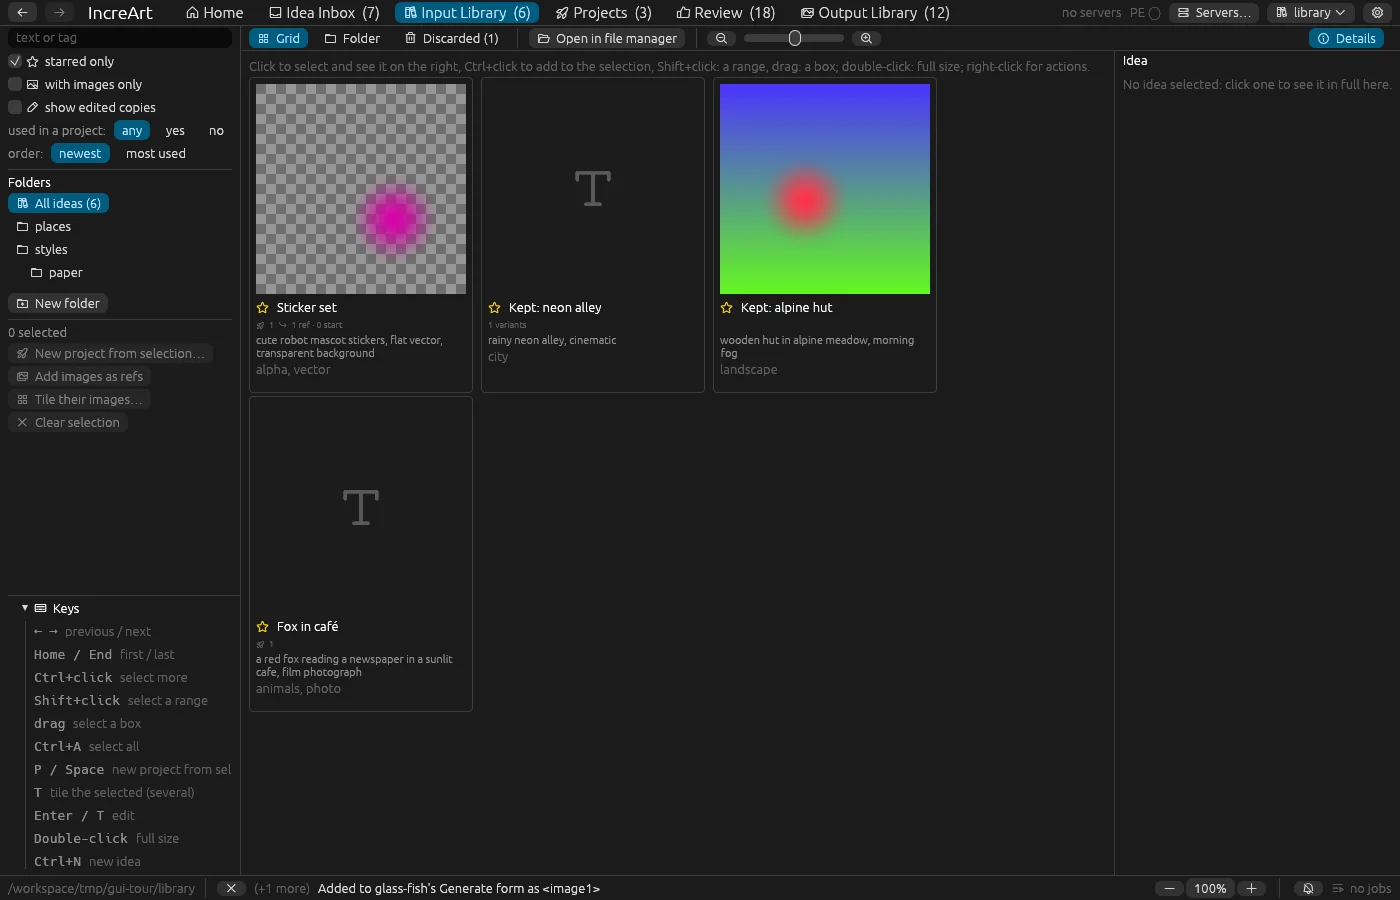
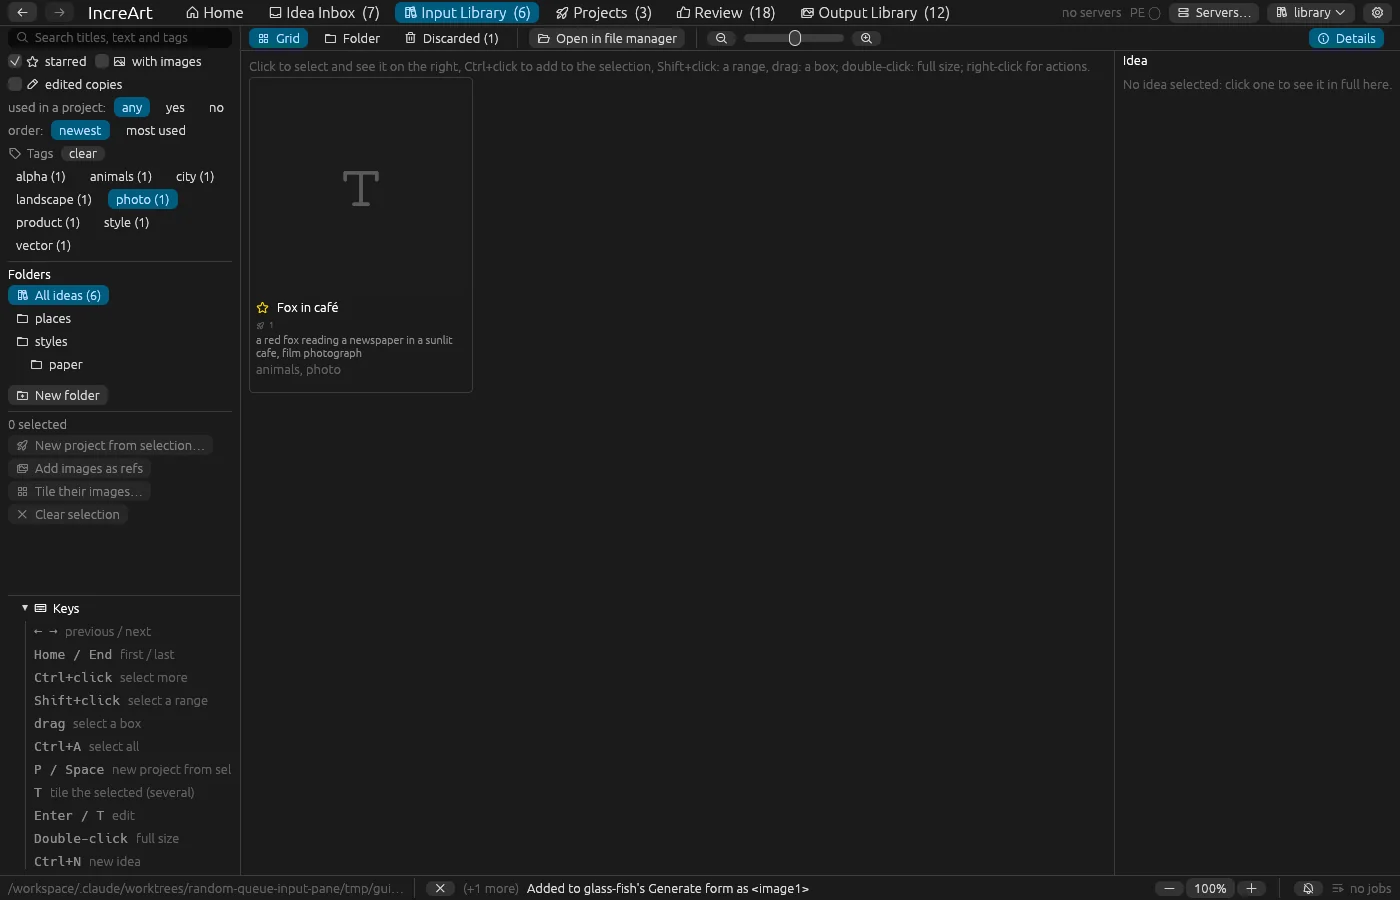
Input library: the left pane's search and tags laid out as the Output library's: a search box over titles, text and tags (✕ or Esc clears it), starred / with images / edited copies on one row, then Tags, the folder's ideas' tags with their counts as chips (any case counts as one): a click shows only

diff --git a/crates/increart-gui-core/src/state.rs b/crates/increart-gui-core/src/state.rs
@@ -54,6 +54,9 @@ pub struct LibFilter {
     pub most_used: bool,
     /// The edited copies (Crop / mark…) too, from `input/edited/`.
     pub show_hidden: bool,
+    /// Only ideas with all of these tags (any case), picked in the tag
+    /// filter.
+    pub tags: Vec<String>,
 }
 
 /// An input image's metadata from its file: where it was imported from, and
@@ -3725,17 +3728,7 @@ impl AppState {
 
     /// Kept ideas in the selected folder and its subfolders, newest first.
     pub fn library_ideas(&self) -> Vec<&IdeaEntry> {
-        let mut v: Vec<_> = self
-            .index
-            .ideas
-            .iter()
-            .filter(|e| match (&e.loc, &self.lib_folder) {
-                (IdeaLoc::Library(_), None) => true,
-                (IdeaLoc::Library(f), Some(sel)) => f.starts_with(sel),
-                (IdeaLoc::Edited, None) => self.lib_filter.show_hidden,
-                _ => false,
-            })
-            .collect();
+        let mut v = self.lib_source_ideas();
         let f = &self.lib_filter;
         let q = f.text.to_lowercase();
         v.retain(|e| {
@@ -3744,6 +3737,7 @@ impl AppState {
                 || i.title.to_lowercase().contains(&q)
                 || i.text.to_lowercase().contains(&q)
                 || i.tags.iter().any(|t| t.to_lowercase().contains(&q)))
+                && f.tags.iter().all(|t| i.tags.iter().any(|x| x.to_lowercase() == t.to_lowercase()))
                 && (!f.starred_only || i.starred)
                 && (!f.with_images_only || !i.images.is_empty())
                 && f.used_in_project.is_none_or(|p| p == !i.projects.is_empty())
@@ -4612,15 +4606,28 @@ impl AppState {
     /// (then by name).
     pub fn tag_counts<'a>(&self, images: impl IntoIterator<Item = &'a ImageRef>) -> Vec<(String, usize)> {
         let all = self.output_tags();
-        let mut n: std::collections::BTreeMap<String, (String, usize)> = Default::default();
-        for i in images {
-            for t in all.get(&i.id).copied().unwrap_or_default() {
-                n.entry(t.to_lowercase()).or_insert((t.clone(), 0)).1 += 1;
-            }
-        }
-        let mut v: Vec<(String, usize)> = n.into_values().collect();
-        v.sort_by(|a, b| b.1.cmp(&a.1).then_with(|| a.0.to_lowercase().cmp(&b.0.to_lowercase())));
-        v
+        count_tags(images.into_iter().map(|i| all.get(&i.id).copied().unwrap_or_default()))
+    }
+
+    /// The ideas' tags with how many have each, most first (the input
+    /// library's tag filter).
+    pub fn idea_tag_counts<'a>(&self, ideas: impl IntoIterator<Item = &'a IdeaEntry>) -> Vec<(String, usize)> {
+        count_tags(ideas.into_iter().map(|e| e.idea.tags.as_slice()))
+    }
+
+    /// The input library Grid's ideas before its filters: the folder's (all
+    /// of the library's with none), and the edited copies when shown.
+    pub fn lib_source_ideas(&self) -> Vec<&IdeaEntry> {
+        self.index
+            .ideas
+            .iter()
+            .filter(|e| match (&e.loc, &self.lib_folder) {
+                (IdeaLoc::Library(_), None) => true,
+                (IdeaLoc::Library(f), Some(sel)) => f.starts_with(sel),
+                (IdeaLoc::Edited, None) => self.lib_filter.show_hidden,
+                _ => false,
+            })
+            .collect()
     }
 
     /// Every tag in the library, output images' and ideas', with how many
@@ -5752,6 +5759,20 @@ pub fn cover(p: &ProjectEntry) -> Option<ImageRef> {
         .iter()
         .max_by(|a, b| (rank(a.verdict), &a.image.id).cmp(&(rank(b.verdict), &b.image.id)))
         .map(|o| o.image.clone())
+}
+
+/// Tags (one list per image or idea) with how many lists have each, any
+/// case counting as one (the first spelling met), most first, then A–Z.
+fn count_tags<'a>(lists: impl IntoIterator<Item = &'a [String]>) -> Vec<(String, usize)> {
+    let mut n: BTreeMap<String, (String, usize)> = Default::default();
+    for tags in lists {
+        for t in tags {
+            n.entry(t.to_lowercase()).or_insert((t.clone(), 0)).1 += 1;
+        }
+    }
+    let mut v: Vec<(String, usize)> = n.into_values().collect();
+    v.sort_by(|a, b| b.1.cmp(&a.1).then_with(|| a.0.to_lowercase().cmp(&b.0.to_lowercase())));
+    v
 }
 
 #[cfg(test)]

diff --git a/crates/increart-gui/src/review.rs b/crates/increart-gui/src/review.rs
@@ -1941,27 +1941,14 @@ fn kept_match(st: &AppState, folder: &Path, q: &str) -> bool {
 fn search_panel(ui: &mut egui::Ui, st: &AppState, out: &mut Vec<Msg>) {
     let mut f = st.output_filter.clone();
     let projects = st.output_search_projects;
-    // right to left: the clear button, then the field takes what's left
-    let row = egui::vec2(ui.available_width(), ui.spacing().interact_size.y);
-    ui.allocate_ui_with_layout(row, egui::Layout::right_to_left(egui::Align::Center), |ui| {
-        let mut q = if projects { st.output_project_search.clone() } else { f.text.clone() };
-        let mut clear = !q.is_empty() && ui.small_button(ph::X).on_hover_text("clear").clicked();
-        let hint = if projects { "Search project names" } else { "Search titles, tags and prompts" };
-        let r = ui.add(
-            egui::TextEdit::singleline(&mut q)
-                .hint_text(ic(ph::MAGNIFYING_GLASS, hint))
-                .desired_width(ui.available_width()),
-        );
-        clear |= r.lost_focus() && ui.input(|i| i.key_pressed(Key::Escape));
-        if clear {
-            q.clear();
-        }
-        if projects && q != st.output_project_search {
+    if projects {
+        let mut q = st.output_project_search.clone();
+        if crate::widgets::search_field(ui, &mut q, "Search project names") {
             out.push(Msg::OutputProjectSearch(q));
-        } else if !projects {
-            f.text = q;
         }
-    });
+    } else {
+        crate::widgets::search_field(ui, &mut f.text, "Search titles, tags and prompts");
+    }
     ui.horizontal(|ui| {
         ui.weak("in");
         let images =
@@ -1994,39 +1981,9 @@ fn search_panel(ui: &mut egui::Ui, st: &AppState, out: &mut Vec<Msg>) {
 /// shows only the images with it (several: all of them), again lets go.
 fn tag_filter(ui: &mut egui::Ui, st: &AppState, f: &mut increart_gui_core::OutputFilter) {
     let images = st.source_images_in(&st.output_source, f.ratings);
-    let mut tags = st.tag_counts(images.iter().map(|o| &o.image));
-    // one picked that none of these have stays, to let go of it
-    for t in &f.tags {
-        if !tags.iter().any(|(x, _)| x.to_lowercase() == t.to_lowercase()) {
-            tags.push((t.clone(), 0));
-        }
-    }
-    ui.horizontal(|ui| {
-        ui.label(ic(ph::TAG, "Tags"));
-        if !f.tags.is_empty() && ui.small_button("clear").on_hover_text("show every tag's images").clicked() {
-            f.tags.clear();
-        }
-    });
-    if tags.is_empty() {
-        ui.weak("No tags here yet: tag images with L.");
-        return;
-    }
-    ScrollArea::vertical().id_salt("tag_filter").max_height(110.0).auto_shrink([false, true]).show(ui, |ui| {
-        ui.horizontal_wrapped(|ui| {
-            for (t, n) in tags {
-                let at = f.tags.iter().position(|x| x.to_lowercase() == t.to_lowercase());
-                let r = ui.selectable_label(at.is_some(), format!("{t} ({n})"));
-                if r.on_hover_text("only images with this tag (several: all of them)").clicked() {
-                    match at {
-                        Some(i) => {
-                            f.tags.remove(i);
-                        }
-                        None => f.tags.push(t),
-                    }
-                }
-            }
-        });
-    });
+    let tags = st.tag_counts(images.iter().map(|o| &o.image));
+    let (none, tip) = ("No tags here yet: tag images with L.", "only images with this tag (several: all of them)");
+    crate::widgets::tag_chips(ui, "tag_filter", tags, &mut f.tags, none, tip);
 }
 
 /// Search and filters, then the sources: collections (All projects first,

diff --git a/crates/increart-gui/src/widgets.rs b/crates/increart-gui/src/widgets.rs
@@ -549,6 +549,68 @@ pub fn dialog_buttons<R>(ui: &mut egui::Ui, actions: impl FnOnce(&mut egui::Ui) 
     dialog_footer(ui, |_| (), actions).1
 }
 
+/// A search box across the panel with a clear button (Esc in it clears
+/// too); true when `q` changed.
+pub fn search_field(ui: &mut egui::Ui, q: &mut String, hint: &str) -> bool {
+    let before = q.clone();
+    // right to left: the clear button, then the field takes what's left
+    let row = egui::vec2(ui.available_width(), ui.spacing().interact_size.y);
+    ui.allocate_ui_with_layout(row, egui::Layout::right_to_left(egui::Align::Center), |ui| {
+        let mut clear = !q.is_empty() && ui.small_button(ph::X).on_hover_text("clear").clicked();
+        let r = ui.add(
+            egui::TextEdit::singleline(q).hint_text(ic(ph::MAGNIFYING_GLASS, hint)).desired_width(ui.available_width()),
+        );
+        clear |= r.lost_focus() && ui.input(|i| i.key_pressed(egui::Key::Escape));
+        if clear {
+            q.clear();
+        }
+    });
+    *q != before
+}
+
+/// The tag filter: "Tags" (with clear while some are picked), then each tag
+/// with its count as a chip; a click picks it (several: all of them), again
+/// lets go. A picked tag none have stays, to let go of it.
+pub fn tag_chips(
+    ui: &mut egui::Ui,
+    id: &str,
+    mut tags: Vec<(String, usize)>,
+    picked: &mut Vec<String>,
+    none: &str,
+    tip: &str,
+) {
+    for t in picked.iter() {
+        if !tags.iter().any(|(x, _)| x.to_lowercase() == t.to_lowercase()) {
+            tags.push((t.clone(), 0));
+        }
+    }
+    ui.horizontal(|ui| {
+        ui.label(ic(ph::TAG, "Tags"));
+        if !picked.is_empty() && ui.small_button("clear").on_hover_text("show them whatever their tags").clicked() {
+            picked.clear();
+        }
+    });
+    if tags.is_empty() {
+        ui.weak(none);
+        return;
+    }
+    egui::ScrollArea::vertical().id_salt(id).max_height(110.0).auto_shrink([false, true]).show(ui, |ui| {
+        ui.horizontal_wrapped(|ui| {
+            for (t, n) in tags {
+                let at = picked.iter().position(|x| x.to_lowercase() == t.to_lowercase());
+                if ui.selectable_label(at.is_some(), format!("{t} ({n})")).on_hover_text(tip).clicked() {
+                    match at {
+                        Some(i) => {
+                            picked.remove(i);
+                        }
+                        None => picked.push(t),
+                    }
+                }
+            }
+        });
+    });
+}
+
 #[cfg(test)]
 mod tests {
     use super::*;

diff --git a/crates/increart-gui/src/ideas.rs b/crates/increart-gui/src/ideas.rs
@@ -1030,11 +1030,14 @@ pub fn input_library(ui: &mut egui::Ui, st: &AppState, tex: &mut Textures, out: 
                 });
         });
         let mut f = st.lib_filter.clone();
-        ui.add(egui::TextEdit::singleline(&mut f.text).hint_text("text or tag").desired_width(f32::INFINITY));
-        ui.checkbox(&mut f.starred_only, ic(ph::STAR, "starred only"));
-        ui.checkbox(&mut f.with_images_only, ic(ph::IMAGE, "with images only"));
-        ui.checkbox(&mut f.show_hidden, ic(ph::PENCIL_SIMPLE, "show edited copies"))
-            .on_hover_text("the cropped and marked copies (Crop / mark…), hidden otherwise; with no folder selected");
+        crate::widgets::search_field(ui, &mut f.text, "Search titles, text and tags");
+        ui.horizontal_wrapped(|ui| {
+            ui.checkbox(&mut f.starred_only, ic(ph::STAR, "starred"));
+            ui.checkbox(&mut f.with_images_only, ic(ph::IMAGE, "with images"));
+            ui.checkbox(&mut f.show_hidden, ic(ph::PENCIL_SIMPLE, "edited copies")).on_hover_text(
+                "the cropped and marked copies (Crop / mark…), hidden otherwise; with no folder selected",
+            );
+        });
         ui.horizontal(|ui| {
             ui.label("used in a project:");
             for (v, l) in [(None, "any"), (Some(true), "yes"), (Some(false), "no")] {
@@ -1054,6 +1057,10 @@ pub fn input_library(ui: &mut egui::Ui, st: &AppState, tex: &mut Textures, out: 
                 }
             }
         });
+        let tags = st.idea_tag_counts(st.lib_source_ideas());
+        let (none, tip) =
+            ("No tags here yet: Edit an idea to tag it.", "only ideas with this tag (several: all of them)");
+        crate::widgets::tag_chips(ui, "lib_tag_filter", tags, &mut f.tags, none, tip);
         if f != st.lib_filter {
             out.push(Msg::LibFilter(f));
         }

diff --git a/crates/increart-gui-core/tests/flows.rs b/crates/increart-gui-core/tests/flows.rs
@@ -2454,8 +2454,8 @@ fn edit_idea_window_and_its_history() {
 #[test]
 fn library_filters_and_output_sources() {
     let mut h = Harness::new();
-    for (t, x, star) in [("Fox", "a fox", true), ("Hut", "alpine hut", false)] {
-        h.send(Msg::Draft(IdeaDraft { title: t.into(), text: x.into(), ..Default::default() }));
+    for (t, x, star, tags) in [("Fox", "a fox", true, "animals, photo"), ("Hut", "alpine hut", false, "Photo")] {
+        h.send(Msg::Draft(IdeaDraft { title: t.into(), text: x.into(), tags: tags.into(), ..Default::default() }));
         h.send(Msg::AddIdea(AddIdea::Keep));
         h.send(Msg::ConfirmSaveIdea);
         h.settle();
@@ -2471,6 +2471,13 @@ fn library_filters_and_output_sources() {
     assert_eq!(h.state.library_ideas()[0].idea.title, "Hut");
     h.send(Msg::LibFilter(LibFilter { used_in_project: Some(true), ..Default::default() }));
     assert!(h.state.library_ideas().is_empty());
+    // tags: any case counts as one; several picked, ideas with all of them
+    let counts = h.state.idea_tag_counts(h.state.lib_source_ideas());
+    assert_eq!(counts, [("photo".to_string(), 2), ("animals".to_string(), 1)]);
+    h.send(Msg::LibFilter(LibFilter { tags: vec!["PHOTO".into()], ..Default::default() }));
+    assert_eq!(h.state.library_ideas().len(), 2);
+    h.send(Msg::LibFilter(LibFilter { tags: vec!["photo".into(), "animals".into()], ..Default::default() }));
+    assert_eq!(h.state.library_ideas().iter().map(|e| e.idea.title.as_str()).collect::<Vec<_>>(), ["Fox"]);
     h.send(Msg::LibFilter(LibFilter::default()));
 
     // outputs: collections, smart folders, cover, export

diff --git a/crates/increart-gui/src/tour.rs b/crates/increart-gui/src/tour.rs
@@ -1436,7 +1436,11 @@ impl Tour {
             "20-input-library-filters" => vec![
                 Msg::Tab(Tab::InputLibrary),
                 Msg::LibTab(increart_gui_core::LibTab::Grid),
-                Msg::LibFilter(increart_gui_core::LibFilter { starred_only: true, ..Default::default() }),
+                Msg::LibFilter(increart_gui_core::LibFilter {
+                    starred_only: true,
+                    tags: vec!["photo".into()],
+                    ..Default::default()
+                }),
             ],
             "21-resolutions" => vec![
                 Msg::LibFilter(Default::default()),

diff --git a/docs/gui/README.md b/docs/gui/README.md
@@ -38,7 +38,7 @@ size (regenerate it with `scripts/make-gui-gallery.sh`).
 | [03c-idea-inbox-save-dialog](03c-idea-inbox-save-dialog.webp) | Idea inbox → Save to input library… (`1` / `2` / `S`): the library's folders on the left (a filter, the tree, New folder under it), the idea's name and where it's saved on the right; Save & new project |
 | [04-idea-inbox-new-idea](04-idea-inbox-new-idea.webp) | New idea form |
 | [04b-idea-inbox-new-idea-save-dialog](04b-idea-inbox-new-idea-save-dialog.webp) | New idea → Add & save to input library…: the save dialog on the new idea |
-| [05-input-library](05-input-library.webp) | Input library: folder tree, selection actions, cards |
+| [05-input-library](05-input-library.webp) | Input library: search, filters and the ideas' tags with counts, folder tree, selection actions, cards |
 | [06-projects-grid](06-projects-grid.webp) | Projects: tree and project tiles (cover, counts); the details pane on the right with the folder's totals |
 | [06b-projects-pane](06b-projects-pane.webp) | Projects → Grid, a project selected: the details pane (cover, counts, source ideas, latest run, recent runs, best outputs; Generate / Review / Show outputs / Open folder pinned at the bottom) |
 | [06c-projects-pane-run](06c-projects-pane-run.webp) | Projects → Folder inside a run: the details pane shows the run (prompt, settings, input images, seeds, revisions; Open in Generate / Show outputs / Details) |
@@ -64,7 +64,7 @@ size (regenerate it with `scripts/make-gui-gallery.sh`).
 | [17-prompt-history](17-prompt-history.webp) | Generate history: entries newest first with the settings changed and the runs they led to, word diff and settings against the current form, Restore all / prompt only / Copy |
 | [18-edit-idea](18-edit-idea.webp) | Edit idea window (title, tags, text with history, images, variants) |
 | [19-idea-inbox-import](19-idea-inbox-import.webp) | Idea inbox → Import: waiting files, Import now, recent imports with conversions |
-| [20-input-library-filters](20-input-library-filters.webp) | Input library: filters (starred only), Grid · Folder · Discarded |
+| [20-input-library-filters](20-input-library-filters.webp) | Input library: filters (starred, the tag "photo" picked), Grid · Folder · Discarded |
 | [21-resolutions](21-resolutions.webp) | Resolutions editor (aspect, MP, time estimate, row actions) |
 | [21b-model-presets](21b-model-presets.webp) | Model presets editor (the gear beside Generate's Model preset): which open servers run each, its recipe, files, steps, CFG, flow shift and sigmas |
 | [22-output-library-lineage](22-output-library-lineage.webp) | Output library: sources (collections, smart folders), filters, lineage and recipe of an edited image |

diff --git a/docs/DESIGN.md b/docs/DESIGN.md
@@ -2988,9 +2988,14 @@ the keys and mouse buttons go through that view's own history instead.
     all. Restores can be undone with `Ctrl+Z`.
 - **Input library**: tabs **Grid** (default) · **Folder** (see Projects →
   Folder) · **Discarded** (the same Discarded view as in the Idea inbox). In
-  Grid, the left panel holds the filters (tag / starred / text /
-  has-images / **used in a project** or not), selection actions, and the library folder
-  tree (see Input library folders); the grid shows the selected folder's
+  Grid, the left panel is laid out as the Output library's: the search box
+  (titles, text and tags; ✕ or `Esc` clears it), the filters (starred /
+  with images / edited copies, **used in a project** or not, the order),
+  then **Tags**: the tags of the folder's ideas with their counts as chips
+  (any case counts as one), a click showing only the ideas with it
+  (several: all of them), again letting go, **clear** dropping them; then
+  the library folder tree (see Input library folders) and the selection
+  actions; the grid shows the selected folder's
   ideas, newest first (or most used first); cards show PE rewrite state like the inbox's. Multi-select → new project
   (button or `P`/`Space`); ← → ↑ ↓ and `Home`/`End` select the previous /
   next / first / last idea and show it in the panel, `Ctrl+A` selects all,
